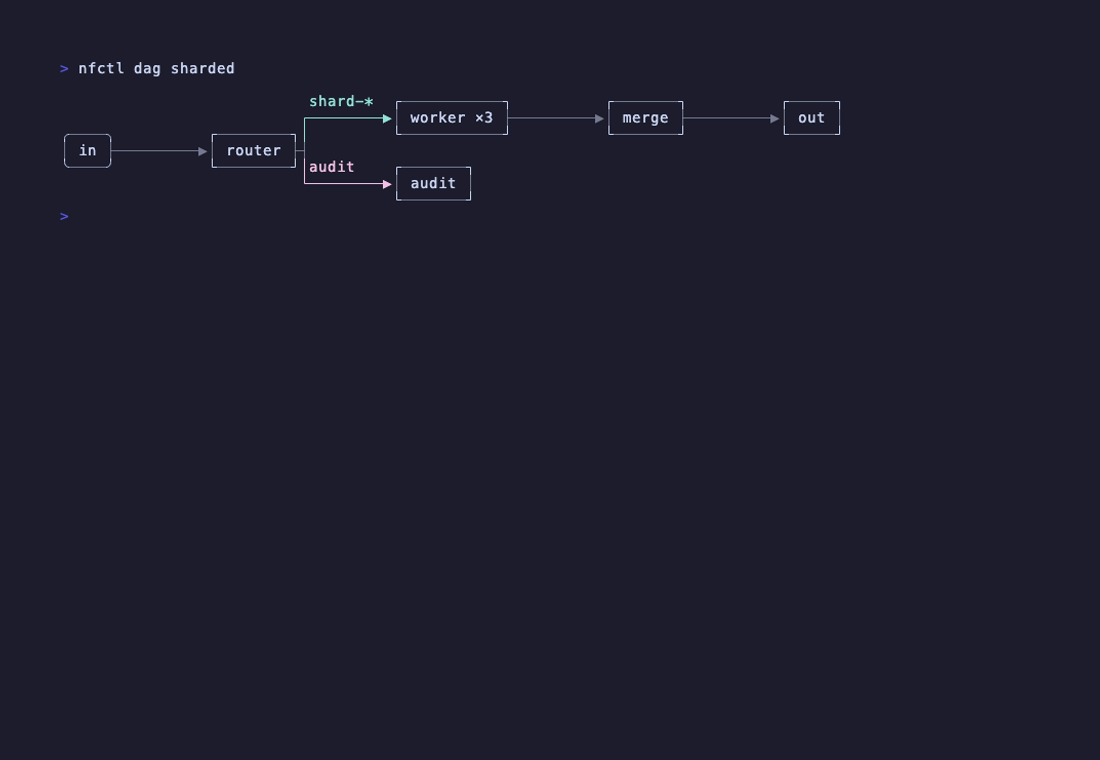
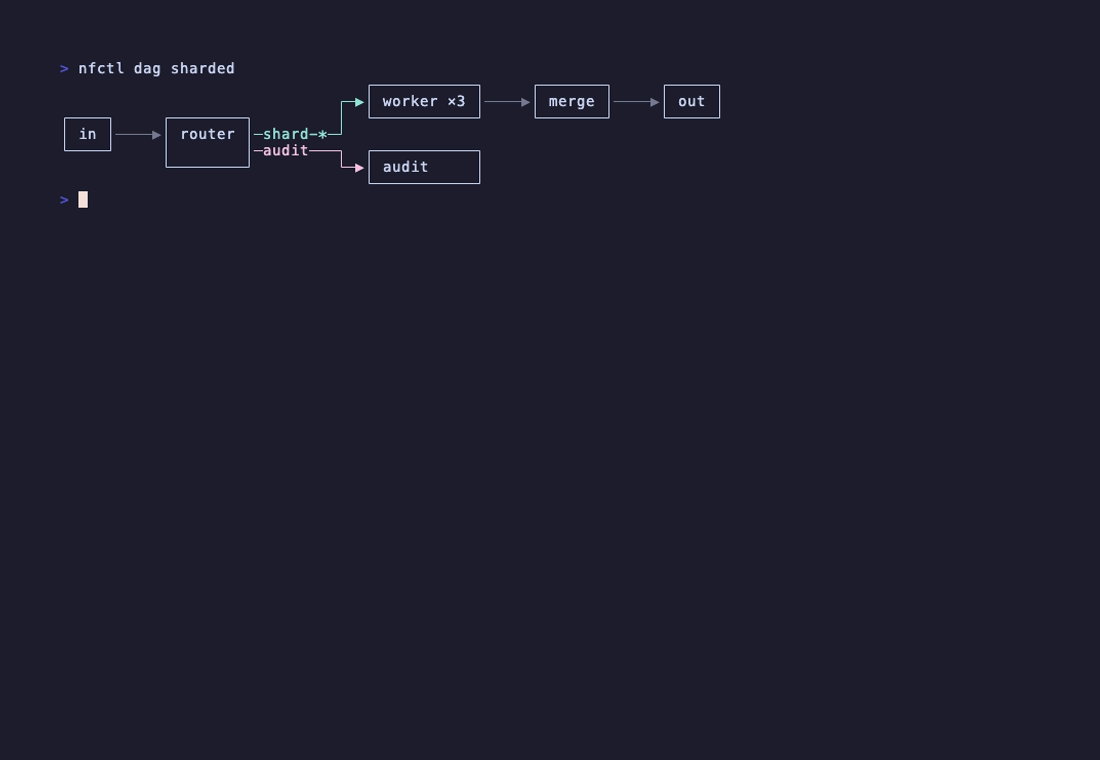
feat(graph): dag text reads the view graph directly
`nfctl dag -f ascii` feeds orthodag the `ViewGraph` through an adaptor,
`to_graph`, instead of the Mermaid text the same graph emits. Colour comes
from orthodag's styled spans: a run that belongs to a flow takes the hue of
its tag combination, an untagged run is dim, and boxes and their text stay
plain, so the output with escapes removed equals the plain render as before.

What changes on screen: every box has square corners, an edge leaves one cell
right of its box instead of through a tee in the border, tag labels sit at
the start of the gap on the row the edge leaves on, a lossy edge is drawn
solid, and a drawing narrower than its floor is not folded top-down. `complex`
bottoms out at 72 columns, which the width test now pins. ADR 0004 records
the decision.

The README sample and the dag recording are regenerated.

Changed region(s): [[0.0618, 0.1211, 0.6491, 0.2724], [0.68, 0.1513, 0.7727, 0.1816], [0.0618, 0.2421, 0.0927, 0.2724]]

diff --git a/crates/nfctl-graph/src/ascii.rs b/crates/nfctl-graph/src/ascii.rs
@@ -1,30 +1,6 @@
-use orthodag::io::mermaid_in::from_mermaid;
-use orthodag::{Graph, Options};
+use orthodag::{Options, Part};
 
-/// The graph in Mermaid source, with the options `dag` draws it at.
-fn read(mermaid: &str, width: Option<usize>) -> Option<(Graph, Options)> {
-    let (_, graph) = from_mermaid(mermaid).ok()?.drain(..).next()?;
-    let mut options = Options::new().labels(true);
-    if let Some(width) = width {
-        options = options.width(width);
-    }
-    Some((graph, options))
-}
-
-/// Render Mermaid source as box-drawing text with its edge tags on the edges,
-/// fitted to `width` columns when given. Blank or unreadable input renders as
-/// nothing.
-#[must_use]
-pub fn render_ascii(mermaid: &str, width: Option<usize>) -> String {
-    let Some((graph, options)) = read(mermaid, width) else {
-        return String::new();
-    };
-    let mut s = orthodag::draw_with(&graph, options);
-    if !s.is_empty() && !s.ends_with('\n') {
-        s.push('\n');
-    }
-    s
-}
+use crate::layout::{ViewGraph, to_graph};
 
 /// SGR foreground codes for the six palette slots, in `orthodag::Colour` slot
 /// order.
@@ -32,34 +8,40 @@ const SGR: [&str; orthodag::PALETTE as usize] = ["36", "35", "33", "32", "34", "
 const DIM: &str = "2";
 const RESET: &str = "\x1b[0m";
 
-/// Like [`render_ascii`], with ANSI colour on edges: every run of line,
-/// arrowhead or tag takes the hue of its tag combination and untagged edges
-/// are dim. Boxes and their text stay uncoloured, so the output without
-/// escapes equals [`render_ascii`].
+/// Render a view graph as box-drawing text with its edge tags written on the
+/// edges, fitted to `width` columns when given. An empty view renders as
+/// nothing.
+///
+/// With `colour`, every run of line, arrowhead or tag carries the ANSI hue of
+/// its tag combination and untagged edges are dim; boxes and their text stay
+/// uncoloured, so the output with escapes removed equals the plain render.
 #[must_use]
-pub fn render_ascii_coloured(mermaid: &str, width: Option<usize>) -> String {
-    let Some((graph, options)) = read(mermaid, width) else {
+pub(crate) fn render_ascii(view: &ViewGraph, width: Option<usize>, colour: bool) -> String {
+    if view.nodes.is_empty() {
         return String::new();
-    };
+    }
+    let graph = to_graph(view);
+    let mut options = Options::new().labels(true);
+    if let Some(width) = width {
+        options = options.width(width);
+    }
+    if !colour {
+        return orthodag::draw_with(&graph, options);
+    }
+
     let mut out = String::new();
     for row in orthodag::spans_with(&graph, options) {
         for span in row {
-            match span.colour {
-                Some(c) => {
+            match (span.part, span.colour) {
+                (Part::Flow, ink) => {
+                    let sgr = ink.map_or(DIM, |c| SGR[usize::from(c.slot()) % SGR.len()]);
                     out.push_str("\x1b[");
-                    out.push_str(SGR[usize::from(c.slot()) % SGR.len()]);
+                    out.push_str(sgr);
                     out.push('m');
                     out.push_str(&span.text);
                     out.push_str(RESET);
                 }
-                None if span.text.chars().any(|ch| "─│┌┐└┘├┤┬┴┼╴╶▶▲".contains(ch)) => {
-                    out.push_str("\x1b[");
-                    out.push_str(DIM);
-                    out.push('m');
-                    out.push_str(&span.text);
-                    out.push_str(RESET);
-                }
-                None => out.push_str(&span.text),
+                (Part::Frame, _) => out.push_str(&span.text),
             }
         }
         out.push('\n');

diff --git a/crates/nfctl-graph/tests/render.rs b/crates/nfctl-graph/tests/render.rs
@@ -124,12 +124,15 @@ fn ascii() {
     insta::assert_snapshot!("complex_ascii", render(&complex(), Format::Ascii, None));
 }
 
+/// Asking for less width shrinks the drawing through a ladder of tighter
+/// styles. `complex` bottoms out at 72 columns: the layout never flips to
+/// top-down and never clips a box, so a width below the floor gets the floor.
 #[test]
 fn ascii_fits_width() {
     let wide = render(&complex(), Format::Ascii, None);
     let narrow = render(&complex(), Format::Ascii, Some(60));
     let max = |s: &str| s.lines().map(|l| l.chars().count()).max().unwrap_or(0);
-    assert!(max(&narrow) <= max(&wide));
+    assert!(max(&narrow) < max(&wide));
     assert!(max(&narrow) <= 72, "narrow render is {} cols", max(&narrow));
     insta::assert_snapshot!("complex_ascii_narrow", narrow);
 }
@@ -259,7 +262,7 @@ fn crowded_tags() -> Topology {
 /// a label, and no label is left as a one-character stub against another.
 #[test]
 fn edge_labels_are_never_overdrawn() {
-    const BOX: &str = "─│┌┐└┘├┤┬┴┼╌╎╭╮╰╯━┃▶◀▲▼";
+    const BOX: &str = "─│┌┐└┘├┤┬┴┼╌╎╭╮╰╯━┃╴╶▶◀▲▼";
 
     let out = render(&crowded_tags(), Format::Ascii, Some(100));
     let word = |c: char| c.is_alphanumeric() || c == '-' || c == ':' || c == ',';

diff --git a/crates/nfctl-graph/src/lib.rs b/crates/nfctl-graph/src/lib.rs
@@ -1,8 +1,8 @@
 //! Render a [`Topology`] as Mermaid, DOT, or box-drawing text.
 //!
 //! The Mermaid and DOT emitters are pure functions of the domain model. The
-//! text renderer is the orthodag crate, fed with the Mermaid we emit: one
-//! emitter, two consumers.
+//! text renderer is the orthodag crate, fed the same `ViewGraph` the Mermaid
+//! emitter reads: one view, two pictures.
 
 mod ascii;
 mod dot;
@@ -10,7 +10,6 @@ pub mod layout;
 mod mermaid;
 mod mermaid_in;
 
-pub use ascii::{render_ascii, render_ascii_coloured};
 pub use dot::to_dot;
 pub use mermaid::{Direction, to_mermaid, view_to_mermaid};
 pub use mermaid_in::{ImportError, from_mermaid};
@@ -62,12 +61,8 @@ pub fn render_with(topology: &Topology, format: Format, opts: RenderOptions) -> 
     } else {
         layout::ViewGraph::expanded(topology)
     };
-    let mermaid = view_to_mermaid(&view, Direction::LeftRight);
     match format {
-        Format::Mermaid | Format::Dot => mermaid,
-        Format::Ascii if opts.colour => {
-            render_ascii_coloured(&mermaid, opts.width)
-        }
-        Format::Ascii => render_ascii(&mermaid, opts.width),
+        Format::Mermaid | Format::Dot => view_to_mermaid(&view, Direction::LeftRight),
+        Format::Ascii => ascii::render_ascii(&view, opts.width, opts.colour),
     }
 }

diff --git a/crates/nfctl-graph/src/layout/view.rs b/crates/nfctl-graph/src/layout/view.rs
@@ -216,3 +216,24 @@ impl ViewGraph {
             .map(|i| NodeId(u32::try_from(i).unwrap_or(u32::MAX)))
     }
 }
+
+/// The view graph as orthodag sees it.
+///
+/// Nodes and edges are added in order, so `orthodag::colour::of` lines up with
+/// `edges` and, for an expanded view, with `Topology::edges()`.
+#[must_use]
+pub fn to_graph(g: &ViewGraph) -> orthodag::Graph {
+    let mut out = orthodag::Graph::new();
+    let ids: Vec<_> = g
+        .nodes
+        .iter()
+        .map(|n| out.add_node(orthodag::Node::new(&n.label)))
+        .collect();
+    for e in &g.edges {
+        let (Some(from), Some(to)) = (ids.get(e.from.0 as usize), ids.get(e.to.0 as usize)) else {
+            continue;
+        };
+        out.add_tagged_edge(*from, *to, e.tags.iter().cloned());
+    }
+    out
+}

diff --git a/crates/nfctl-graph/src/layout/mod.rs b/crates/nfctl-graph/src/layout/mod.rs
@@ -13,7 +13,7 @@ mod tracks;
 mod view;
 
 pub use score::{EdgeScore, Score, scatter, score, score_full};
-pub use view::{ViewEdge, ViewGraph, ViewNode};
+pub use view::{ViewEdge, ViewGraph, ViewNode, to_graph};
 
 use std::collections::HashMap;
 

diff --git a/docs/architecture.md b/docs/architecture.md
@@ -100,7 +100,8 @@ layout, by tag combination; the TUI painter and the CLI's ANSI writer only map
 a palette index to a hue.
 
 The box-drawing `dag` output is drawn by orthodag (ADR 0004), whose styled spans
-say which flow painted each cell, so the CLI can colour it. The layout itself is ADR 0006; completions are ADR 0007. How cells, colours and tracks turn into glyphs is in [rendering.md](rendering.md).
+say which flow painted each cell, so the CLI can colour it. The layout itself is
+ADR 0006; completions are ADR 0007. How cells, colours and tracks turn into glyphs is in [rendering.md](rendering.md).
 
 ## Completions
 
